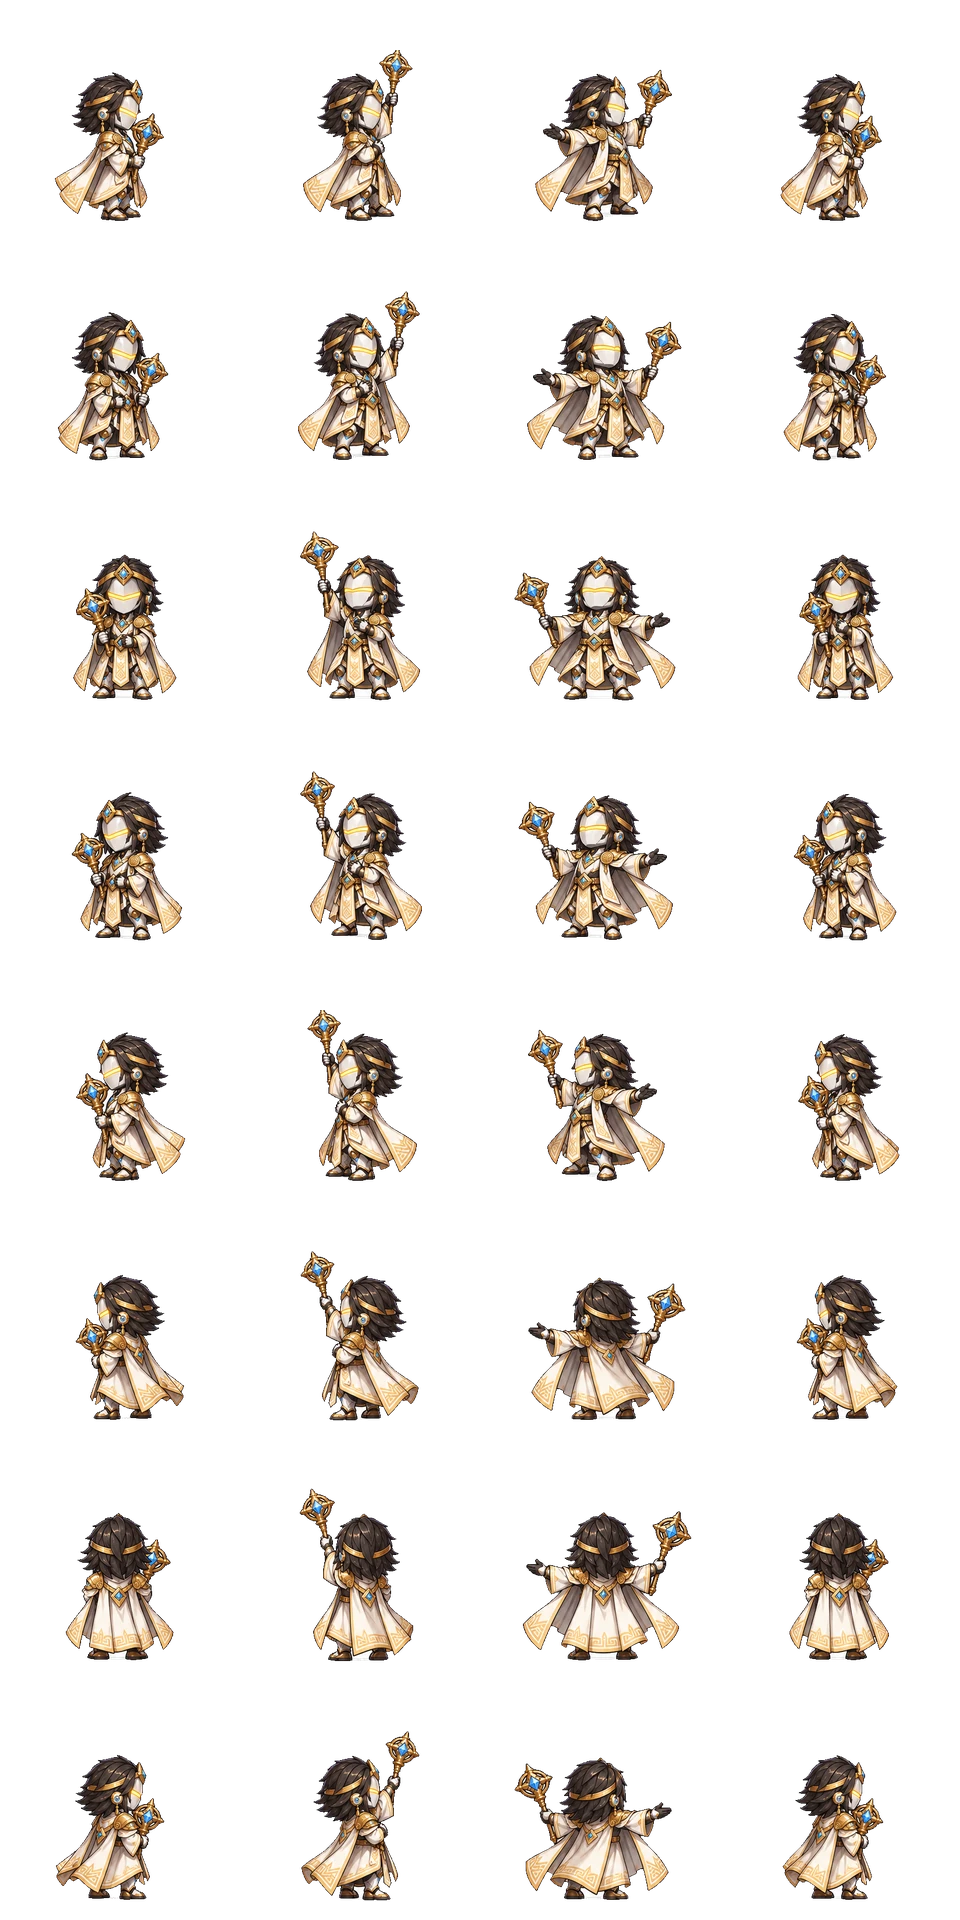
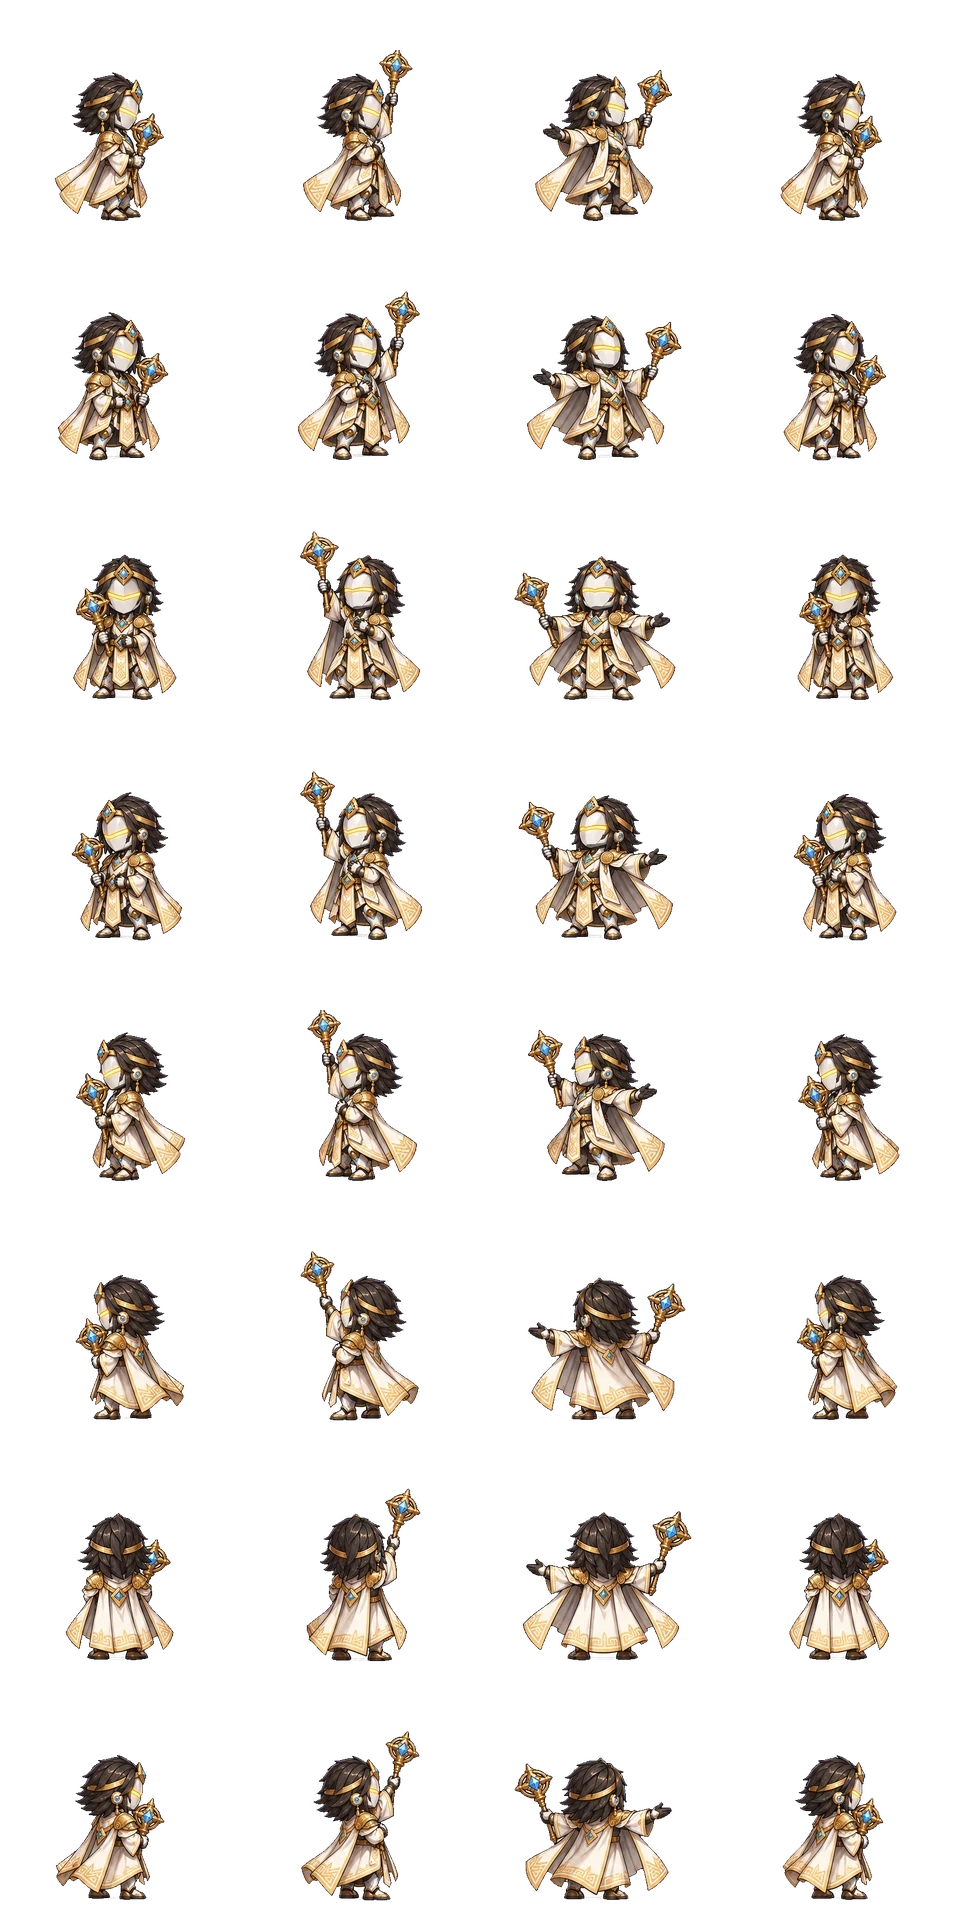
Völva cast: back (N) row frame 2 mirrored so the staff stays in the same hand
Claude-Session: https://claude.ai/code/session_017QrEU6PVR1NvrPzc5r5uQv

Changed region(s): [[0.3125, 0.7812, 0.4375, 0.875]]

diff --git a/index.html b/index.html
@@ -13,8 +13,8 @@
   <meta name="description" content="IRON VALHALLA — เกม RPG หุ่นยนต์แอนดรอยด์ในโลกตำนานนอร์ส เล่นบนเบราว์เซอร์">
   <link rel="preconnect" href="https://fonts.googleapis.com">
   <link href="https://fonts.googleapis.com/css2?family=Kanit:wght@400;500;600;700;800&family=Noto+Sans+Thai:wght@400;500;600;700&family=IBM+Plex+Sans+Thai:wght@400;500;600&family=IBM+Plex+Mono:wght@500;600&display=swap" rel="stylesheet">
-  <link rel="stylesheet" href="css/style.css?v=202610021139">
-  <link rel="stylesheet" href="css/visor.css?v=202610021139">
+  <link rel="stylesheet" href="css/style.css?v=202610021152">
+  <link rel="stylesheet" href="css/visor.css?v=202610021152">
 </head>
 <body class="visor">
   <canvas id="cv"></canvas>
@@ -284,49 +284,49 @@
   </div>
 
   <script src="https://cdn.jsdelivr.net/npm/@supabase/supabase-js@2.45.4/dist/umd/supabase.min.js"></script>
-  <script src="js/i18n.js?v=202610021139"></script>
-  <script src="js/online.config.js?v=202610021139"></script>
-  <script src="js/data.js?v=202610021139"></script>
-  <script src="js/art.js?v=202610021139"></script>
-  <script src="js/util.js?v=202610021139"></script>
-  <script src="js/maps.js?v=202610021139"></script>
-  <script src="js/flora.js?v=202610021139"></script>
-  <script src="js/sprites.js?v=202610021139"></script>
-  <script src="js/rig.js?v=202610021139"></script>
-  <script src="js/pose.js?v=202610021139"></script>
-  <script src="js/anim.js?v=202610021139"></script>
-  <script src="js/paperdoll_data.js?v=202610021139"></script>
-  <script src="js/paperdoll_fix.js?v=202610021139"></script>
-  <script src="js/paperdoll_depth.js?v=202610021139"></script>
-  <script src="js/paperdoll.js?v=202610021139"></script>
-  <script src="js/armed_trail.js?v=202610021139"></script>
-  <script src="js/weapontrail.js?v=202610021139"></script>
-  <script src="js/sound.js?v=202610021139"></script>
-  <script src="js/music.js?v=202610021139"></script>
-  <script src="js/title.js?v=202610021139"></script>
-  <script src="js/passive.js?v=202610021139"></script>
-  <script src="js/game.js?v=202610021139"></script>
-  <script src="js/npc.js?v=202610021139"></script>
-  <script src="js/bot.js?v=202610021139"></script>
-  <script src="js/online.js?v=202610021139"></script>
-  <script src="js/party.js?v=202610021139"></script>
-  <script src="js/trade.js?v=202610021139"></script>
-  <script src="js/fx2.js?v=202610021139"></script>
-  <script src="js/juice.js?v=202610021139"></script>
-  <script src="js/render.js?v=202610021139"></script>
-  <script src="js/ui.js?v=202610021139"></script>
-  <script src="js/pad.js?v=202610021139"></script>
-  <script src="js/nav.js?v=202610021139"></script>
-  <script src="js/quest.js?v=202610021139"></script>
-  <script src="js/daily.js?v=202610021139"></script>
-  <script src="js/story.js?v=202610021139"></script>
-  <script src="js/content_ch6.js?v=202610021139"></script>
-  <script src="js/loot.js?v=202610021139"></script>
-  <script src="js/balance.js?v=202610021139"></script>
-  <script src="js/worldboss.js?v=202610021139"></script>
-  <script src="js/classbook.js?v=202610021139"></script>
-  <script src="js/gacha.js?v=202610021139"></script>
-  <script src="js/emote.js?v=202610021139"></script>
-  <script src="js/main.js?v=202610021139"></script>
+  <script src="js/i18n.js?v=202610021152"></script>
+  <script src="js/online.config.js?v=202610021152"></script>
+  <script src="js/data.js?v=202610021152"></script>
+  <script src="js/art.js?v=202610021152"></script>
+  <script src="js/util.js?v=202610021152"></script>
+  <script src="js/maps.js?v=202610021152"></script>
+  <script src="js/flora.js?v=202610021152"></script>
+  <script src="js/sprites.js?v=202610021152"></script>
+  <script src="js/rig.js?v=202610021152"></script>
+  <script src="js/pose.js?v=202610021152"></script>
+  <script src="js/anim.js?v=202610021152"></script>
+  <script src="js/paperdoll_data.js?v=202610021152"></script>
+  <script src="js/paperdoll_fix.js?v=202610021152"></script>
+  <script src="js/paperdoll_depth.js?v=202610021152"></script>
+  <script src="js/paperdoll.js?v=202610021152"></script>
+  <script src="js/armed_trail.js?v=202610021152"></script>
+  <script src="js/weapontrail.js?v=202610021152"></script>
+  <script src="js/sound.js?v=202610021152"></script>
+  <script src="js/music.js?v=202610021152"></script>
+  <script src="js/title.js?v=202610021152"></script>
+  <script src="js/passive.js?v=202610021152"></script>
+  <script src="js/game.js?v=202610021152"></script>
+  <script src="js/npc.js?v=202610021152"></script>
+  <script src="js/bot.js?v=202610021152"></script>
+  <script src="js/online.js?v=202610021152"></script>
+  <script src="js/party.js?v=202610021152"></script>
+  <script src="js/trade.js?v=202610021152"></script>
+  <script src="js/fx2.js?v=202610021152"></script>
+  <script src="js/juice.js?v=202610021152"></script>
+  <script src="js/render.js?v=202610021152"></script>
+  <script src="js/ui.js?v=202610021152"></script>
+  <script src="js/pad.js?v=202610021152"></script>
+  <script src="js/nav.js?v=202610021152"></script>
+  <script src="js/quest.js?v=202610021152"></script>
+  <script src="js/daily.js?v=202610021152"></script>
+  <script src="js/story.js?v=202610021152"></script>
+  <script src="js/content_ch6.js?v=202610021152"></script>
+  <script src="js/loot.js?v=202610021152"></script>
+  <script src="js/balance.js?v=202610021152"></script>
+  <script src="js/worldboss.js?v=202610021152"></script>
+  <script src="js/classbook.js?v=202610021152"></script>
+  <script src="js/gacha.js?v=202610021152"></script>
+  <script src="js/emote.js?v=202610021152"></script>
+  <script src="js/main.js?v=202610021152"></script>
 </body>
 </html>

diff --git a/docs/PENDING.md b/docs/PENDING.md
@@ -43,3 +43,5 @@
 
 - [ ] 2026-10-02 — **กรอบ/พื้นหลังหน้าต่างทุกบานไม่สวย** (เจ้าของ: "เดี๋ยวค่อยทำ") — ต้องใช้ภาพวาด
   prompt อยู่ใน `docs/UI_FRAME_PROMPTS.md` (กรอบ 9 ส่วน + หัวหน้าต่าง + ช่องไอเทม + ปุ่ม) • ได้ภาพแล้วติดตั้งเป็น border-image ทุกหน้าต่าง
+
+- Völva ท่าร่าย (ชาย/หญิง) แถวหันหลังตรง (N): เฟรม 2 คทาสลับมือ → กลับภาพเฟรมนั้นให้ถือมือเดียวกันตลอด
